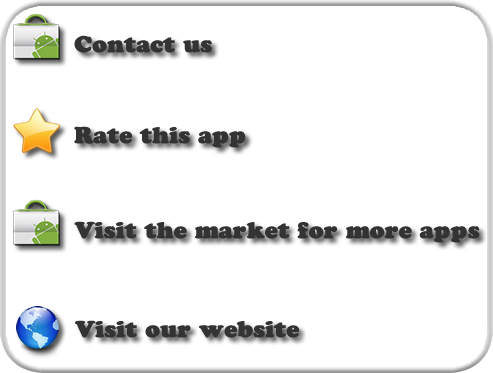
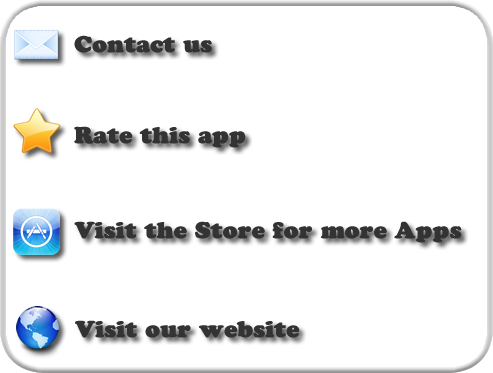
upd

Changed region(s): [[0.3955, 0.5898, 1.0, 0.6783], [0.0, 0.5308, 0.1521, 0.7078], [0.0, 0.0295, 0.1521, 0.1769]]

diff --git a/core/src/main/java/co/romesoft/core/screens/LevelScreen.java b/core/src/main/java/co/romesoft/core/screens/LevelScreen.java
@@ -346,7 +346,7 @@ public class LevelScreen extends Screen implements Keyboard.Listener {
 		nextpuzzleImageLayer.setScale(Launcher.multWidth);
 		
 		nextpuzzleImageLayer.setTranslation((RANDOM_DROPZONES_POSITION_PAD*Launcher.multWidth-nextpuzzleImageLayer.scaledWidth())/2, 
-				(Launcher.height-nextpuzzleImageLayer.scaledHeight())/2);
+				(Launcher.height/2-nextpuzzleImageLayer.scaledHeight())/2);
 		
 		layer.add(nextpuzzleImageLayer);
 		
@@ -362,6 +362,43 @@ public class LevelScreen extends Screen implements Keyboard.Listener {
 			@Override
 			public void onPointerEnd(Event event) {
 				
+				
+			}
+			
+			@Override
+			public void onPointerDrag(Event event) {
+				
+				
+			}
+
+			//@Override
+			public void onPointerCancel(Event event) {
+				// TODO Auto-generated method stub
+				
+			}
+		});
+		
+		
+		Image homeImage = assets().getImage("images/home.png");
+		final ImageLayer homeImageLayer = graphics().createImageLayer(homeImage);
+		homeImageLayer.setScale(Launcher.multWidth);
+		
+		homeImageLayer.setTranslation((RANDOM_DROPZONES_POSITION_PAD*Launcher.multWidth-homeImageLayer.scaledWidth())/2, 
+				Launcher.height/2+(Launcher.height/2-nextpuzzleImageLayer.scaledHeight())/2);
+		
+		layer.add(homeImageLayer);
+		
+		homeImageLayer.addListener(new Listener() {
+			
+			@Override
+			public void onPointerStart(Event event) {
+				
+				
+			}
+			
+			@Override
+			public void onPointerEnd(Event event) {
+				hs.backToHome();
 				
 			}
 			

diff --git a/core/src/main/java/co/romesoft/core/InfoPageLayer.java b/core/src/main/java/co/romesoft/core/InfoPageLayer.java
@@ -12,7 +12,15 @@ import playn.core.Pointer.Event;
 
 
 public class InfoPageLayer {
+	public static final String FULL_URL_1 = "itms-apps://itunes.apple.com/app/id591203279";
+	public static final String FULL_URL_2 = "http://itunes.apple.com/app/id591203279?mt=8";
 	
+	public static final String LITE_URL_1 = "itms-apps://itunes.apple.com/app/id591204908";
+	public static final String LITE_URL_2 = "http://itunes.apple.com/app/id591204908?mt=8";
+
+	public static final String SEARCH_URL_1 = "itms-apps://itunes.com/apps/StefanoFrassi";
+	public static final String SEARCH_URL_2 = "http://itunes.com/apps/StefanoFrassi";
+	/*
 	public static final String FULL_URL_1 = "market://details?id=co.romesoft.toddlers.puzzle.toysFull";
 	public static final String FULL_URL_2 = "http://play.google.com/store/apps/details?id=co.romesoft.toddlers.puzzle.toysFull";
 	
@@ -21,7 +29,7 @@ public class InfoPageLayer {
 
 	public static final String SEARCH_URL_1 = "market://search?q=pub:romeLab";
 	public static final String SEARCH_URL_2 = "http://play.google.com/store/search?q=pub:romeLab";
-	
+	*/
 	/*
 	public static final String FULL_URL_1 = "amzn://apps/android?p=co.romesoft.toddlers.puzzle.toysFull";
 	public static final String FULL_URL_2 = "http://www.amazon.com/gp/mas/dl/android?p=co.romesoft.toddlers.puzzle.toysFull";
